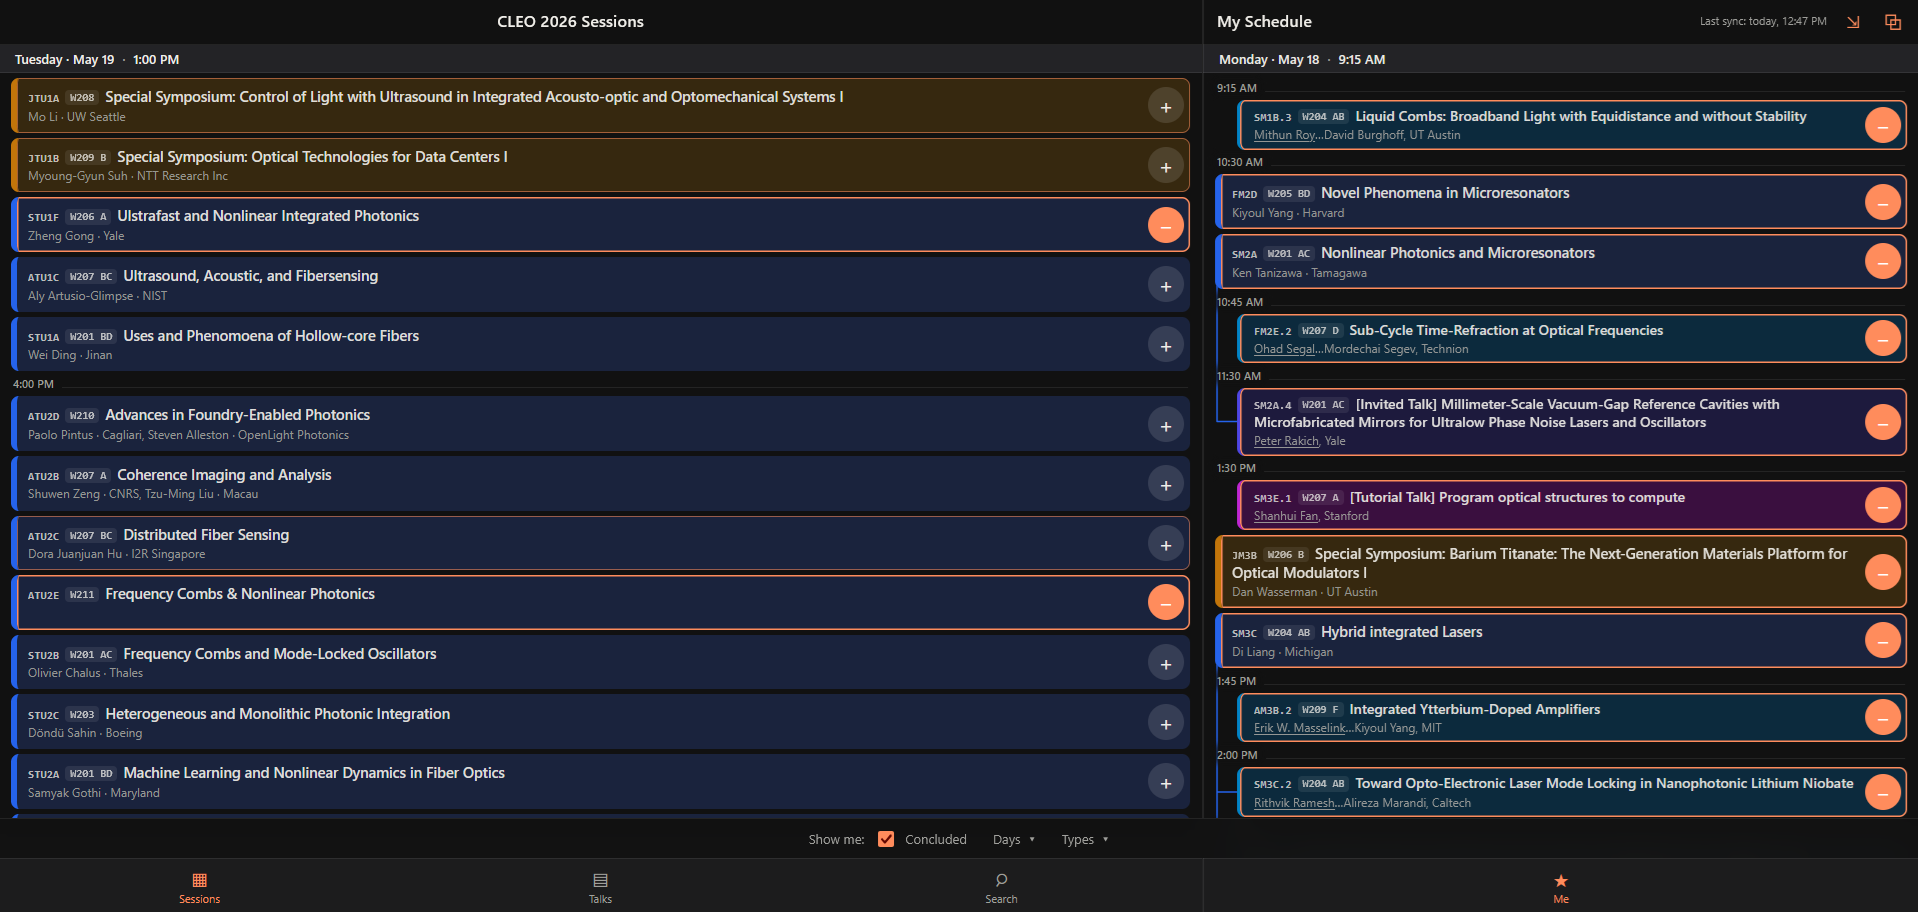
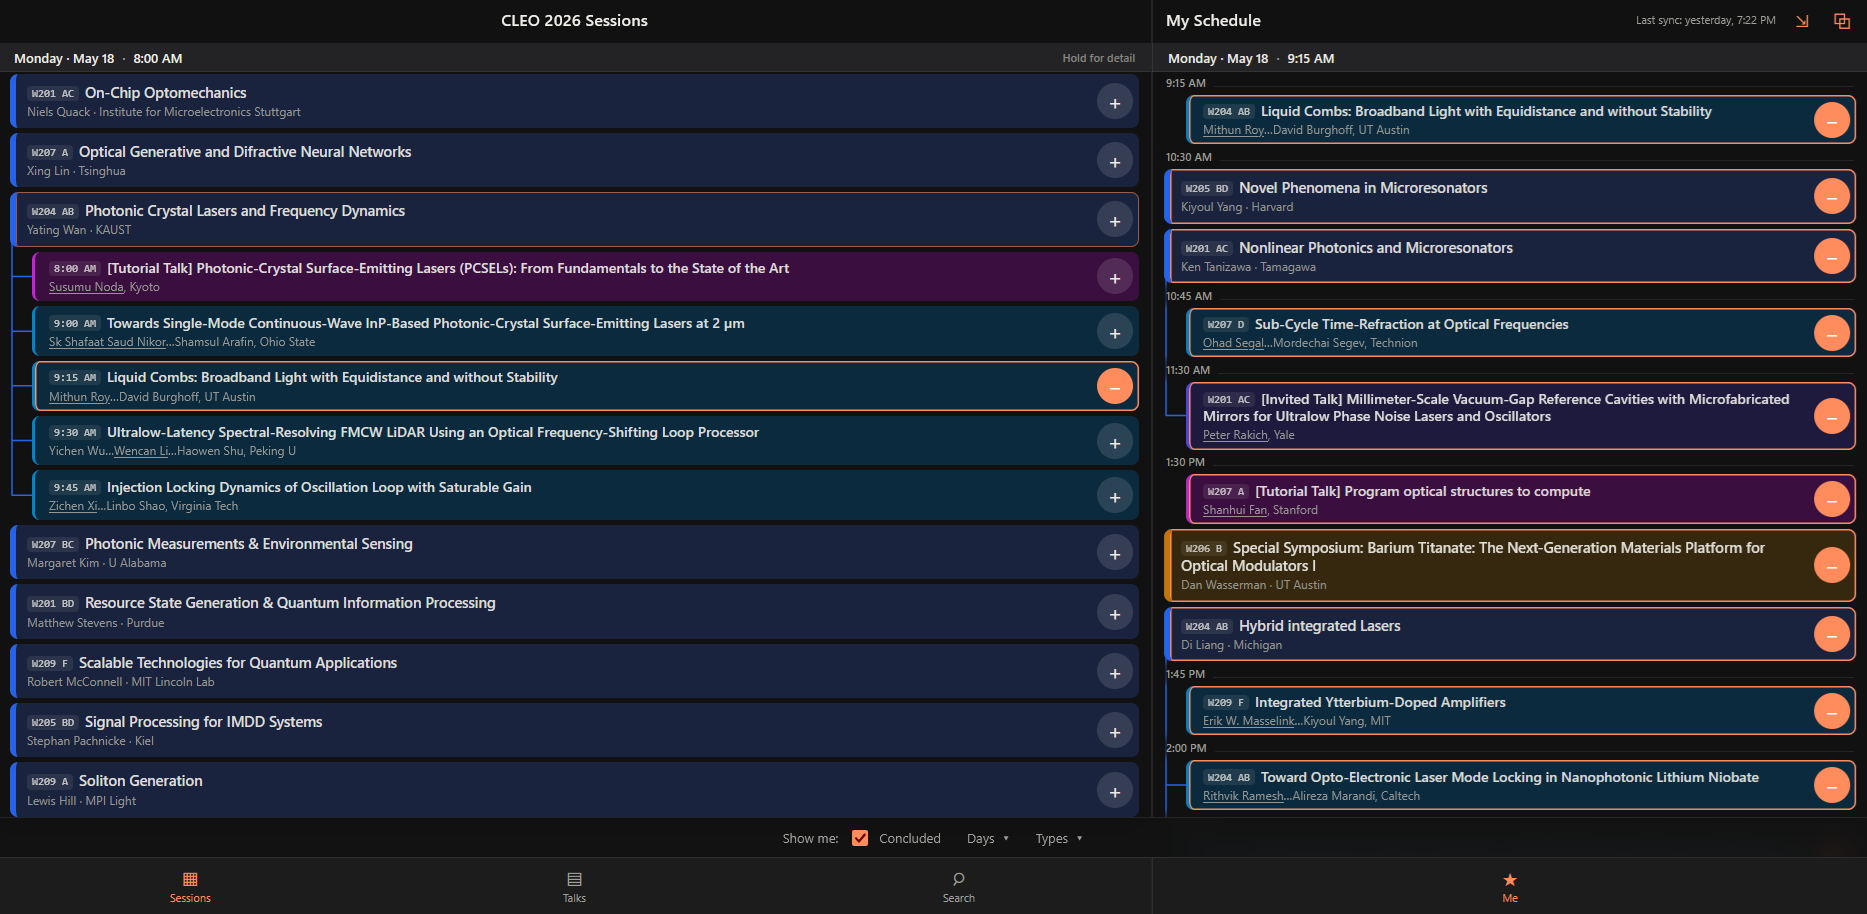
Add Github link

diff --git a/scripts/build_conference_app.py b/scripts/build_conference_app.py
@@ -653,7 +653,15 @@ button {
   backdrop-filter: blur(14px);
   -webkit-backdrop-filter: blur(14px);
   border-bottom: 1px solid var(--line);
-  display: flex; align-items: center;
+  /* Three columns with EQUAL side tracks so the centered title sits at the
+     true center of the bar regardless of what's in the side slots (the back
+     button on the left, sync/copy controls on the right). A plain flexbox
+     mis-centers the title whenever the two sides differ in width — e.g. on
+     the Sessions list where the left back-button is hidden but the right
+     slot still reserves space. */
+  display: grid;
+  grid-template-columns: 1fr auto 1fr;
+  align-items: center;
   z-index: 30;
 }
 @media (prefers-color-scheme: dark) {
@@ -663,17 +671,20 @@ button {
   height: var(--top-h); padding: 0 14px;
   font-size: 17px; color: var(--accent);
   display: flex; align-items: center; gap: 2px;
+  justify-self: start;
 }
 #back-btn[hidden] { display: none; }
 #page-title {
-  flex: 1; margin: 0; padding: 0 8px;
+  margin: 0; padding: 0 8px;
   font-size: 16px; font-weight: 600; letter-spacing: .01em;
   text-align: center;
+  grid-column: 2;
 }
 #topbar-extra {
   display: flex; align-items: center;
-  padding-right: 8px; min-width: 60px;
-  justify-content: flex-end; gap: 4px;
+  padding-right: 8px;
+  justify-self: end;
+  gap: 4px;
 }
 /* Compact "Last sync" text in the Me top bar (narrow / one-pane mode).
    Mirrors the wide pane header's sync text. Truncates rather than
@@ -961,6 +972,15 @@ body[data-active-view="session-detail"] .bubble[data-kind="talk"],
   font-size: 14px;
   margin: 0 0 28px;
 }
+/* Subtle link — inherits the muted attribution color rather than the loud
+   accent, with just a faint underline to signal it's tappable. */
+.me-attribution-link {
+  color: inherit;
+  text-decoration: underline;
+  text-decoration-color: var(--line);
+  text-underline-offset: 2px;
+}
+.me-attribution-link:active { color: var(--accent); }
 
 /* ── Search bar ────────────────────────────────────────────────────── */
 .search-controls {
@@ -2773,7 +2793,17 @@ function renderTimeGrouped(container, items, opts = {}) {
     frag.appendChild(th);
     curTime = "Now";
     for (const it of nowItems) {
-      frag.appendChild(makeBubble(it));
+      frag.appendChild(makeBubble(it, {
+        inlineTime: !!opts.inlineTime,
+        expandable: !!opts.expandable,
+      }));
+      // Inline expansion for an open session in the Now bucket — same as the
+      // main loop below. Without this, tapping a "Now" session bubble fell
+      // through to the non-expandable path and just opened Session detail.
+      if (opts.expandable && !it.session_id && isSessionExpanded(it.id)) {
+        const exp = buildSessionExpansion(it);
+        if (exp) frag.appendChild(exp);
+      }
     }
   }
 
@@ -3538,9 +3568,16 @@ function renderMe(c) {
   btnWrap.appendChild(btn);
   c.appendChild(btnWrap);
 
-  // Attribution line below the copy button.
+  // Attribution line below the copy button. The app name links to the
+  // project's GitHub repo; styled subtly (inherits the muted color, faint
+  // underline) so it reads as tappable without shouting "link".
   c.appendChild(el("div", { class: "me-attribution" }, [
-    "The Fine Conference App v0.1",
+    el("a", {
+      class: "me-attribution-link",
+      href: "https://github.com/burghoff/fine_conference_app",
+      target: "_blank",
+      rel: "noopener noreferrer",
+    }, "The Fine Conference App v0.1"),
     el("br"),
     "David Burghoff, UT Austin",
   ]));
@@ -4902,7 +4939,7 @@ function updateScrollIndicatorIn(ind, scope, bodyCls) {
   // have expandable session bubbles.
   if (ind.id === "scroll-indicator"
       && state.activeTab === "sessions" && currentTopView() === "list") {
-    html += `<span class="ind-hint">Hold for session detail</span>`;
+    html += `<span class="ind-hint">Hold for detail</span>`;
   }
   ind.innerHTML = html;
 }